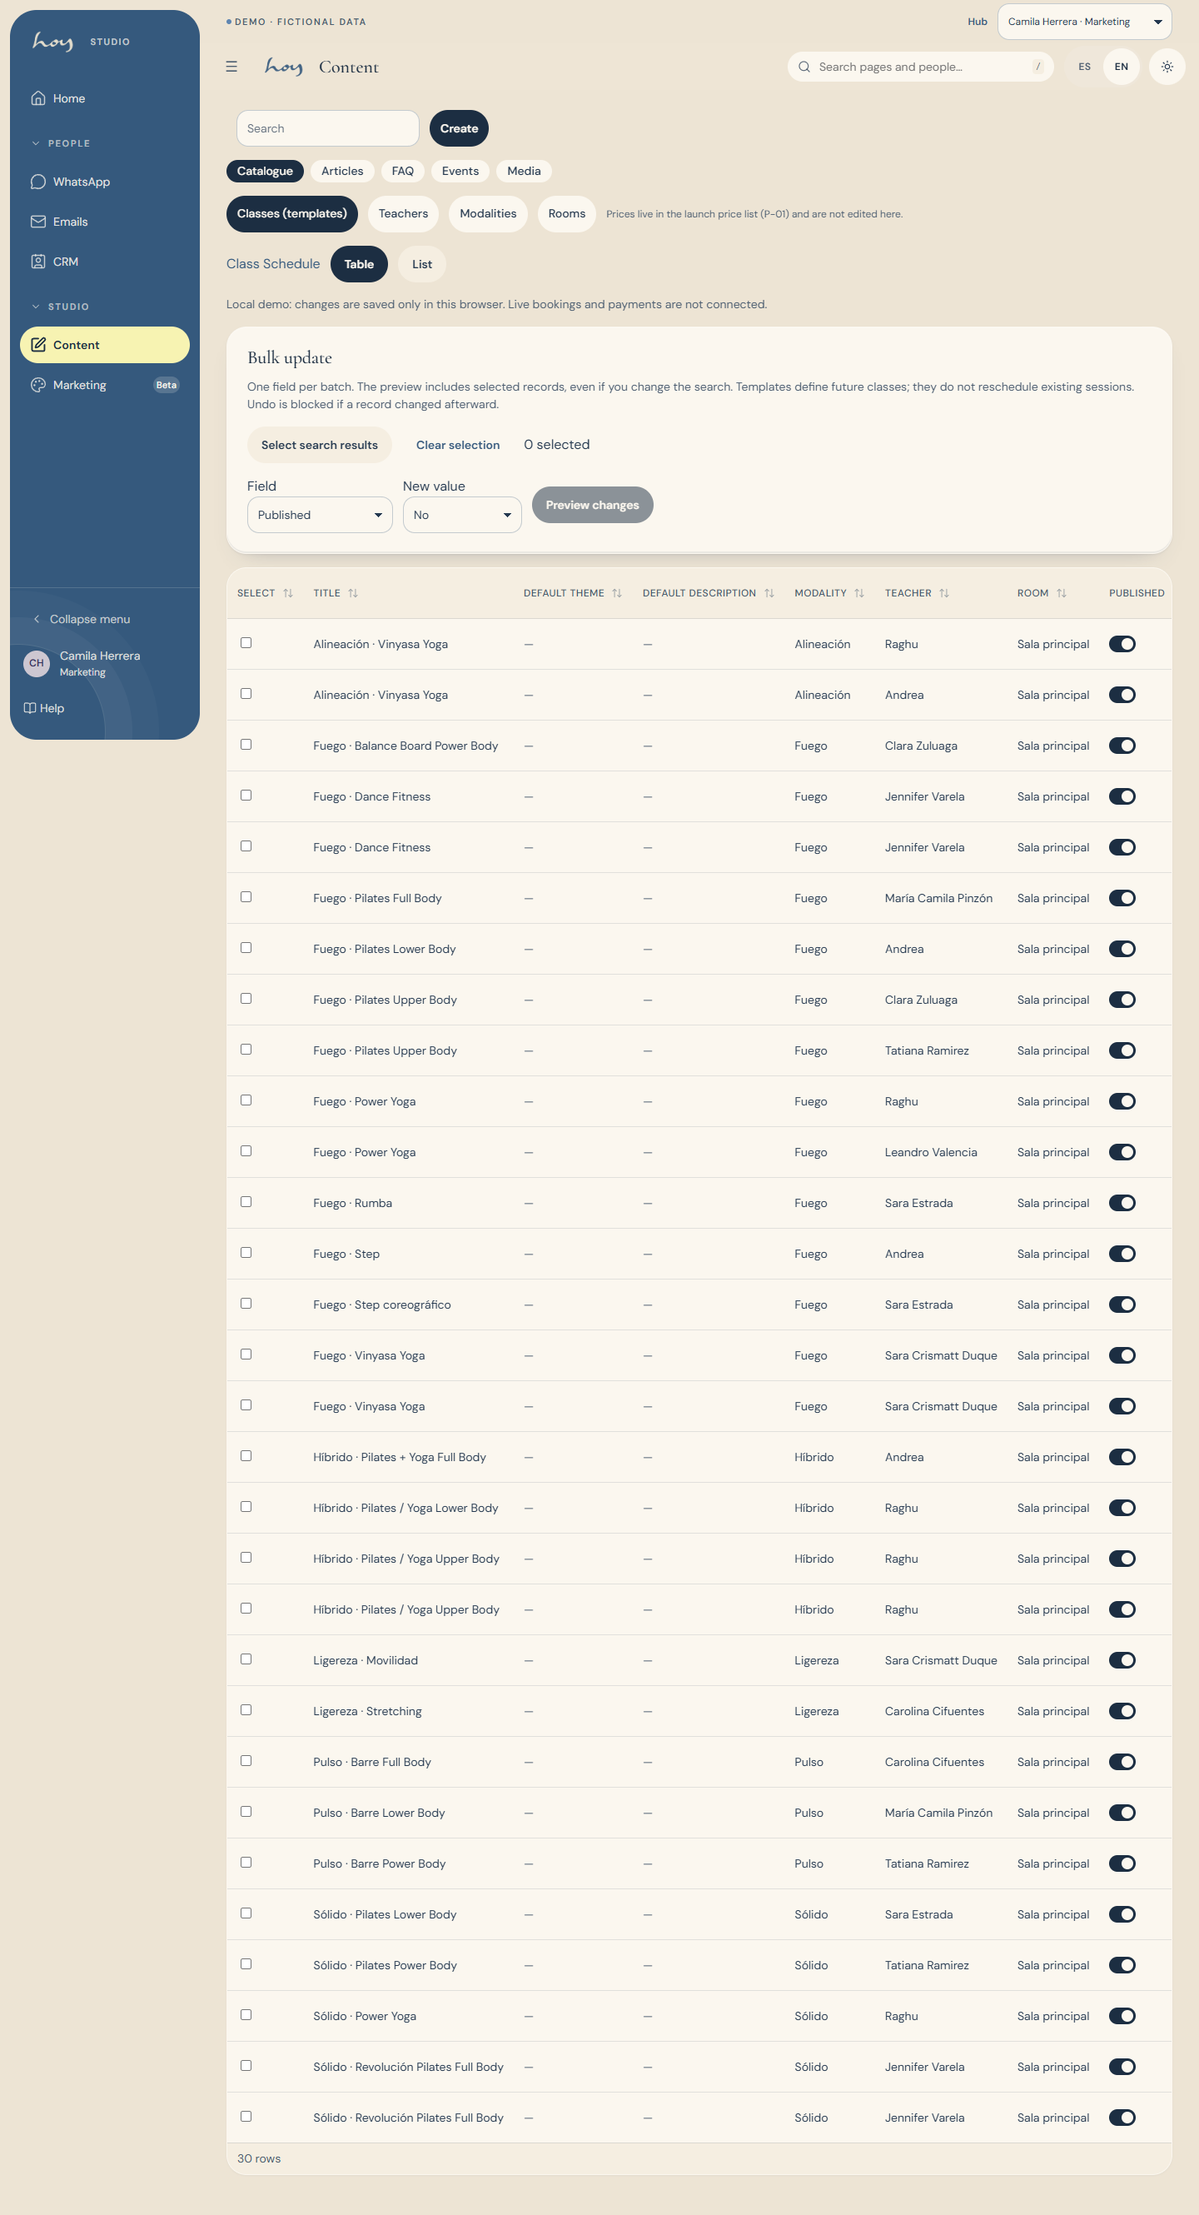
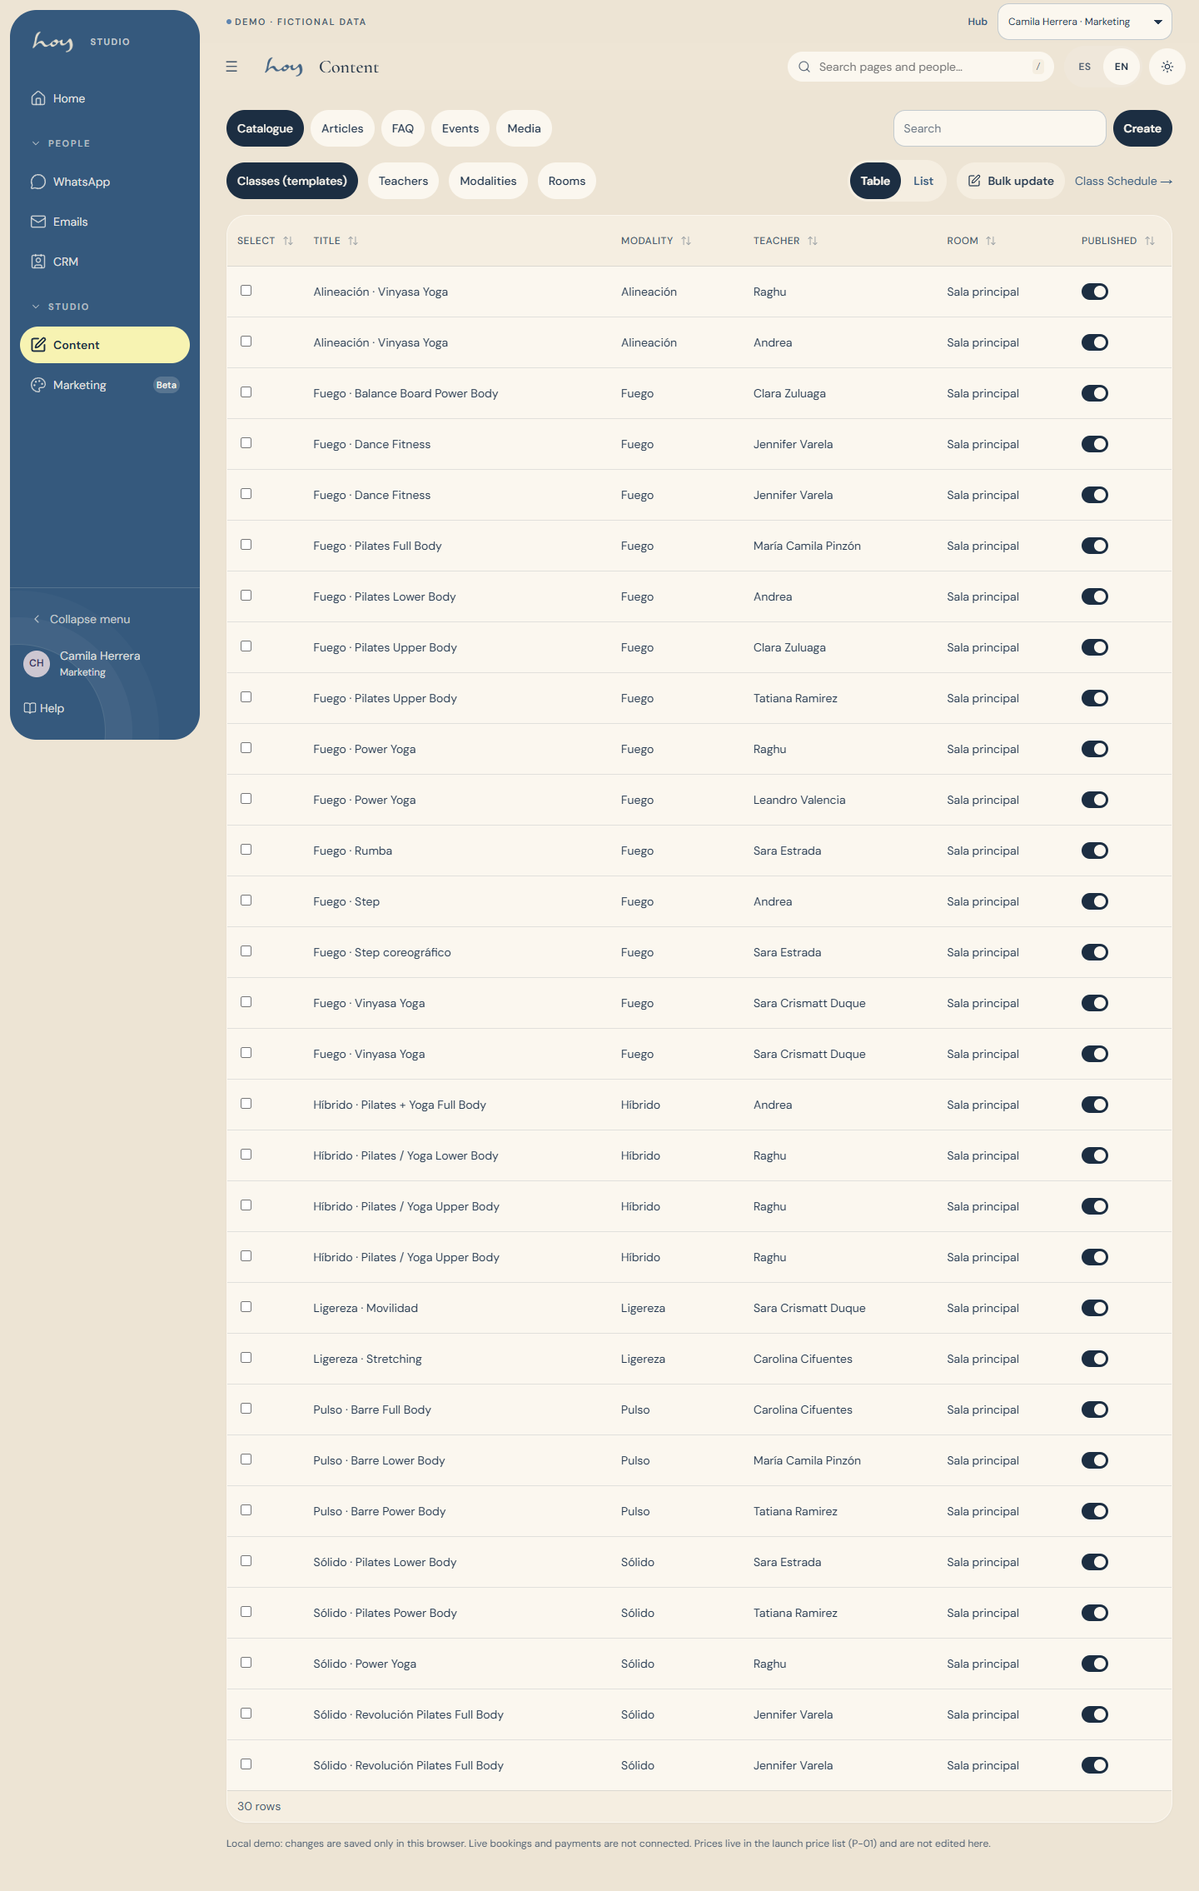
feat(content): two control rows, progressive bulk editor, no empty columns
M-02 family: page actions ride the sub-navigation row; the entities page puts
record tabs and view / bulk / schedule controls on one row, opens the bulk
editor on demand, hides all-empty columns and moves the notes to a footnote.
Changelog 0169.

diff --git a/src/modules/admin/ContentPage.tsx b/src/modules/admin/ContentPage.tsx
@@ -100,6 +100,10 @@ export function ContentPage() {
   const bulkLock = useRef(false);
   const [bulkBusy, setBulkBusy] = useState(false), [bulkError, setBulkError] = useState('');
   const [view, setView] = useState<'table' | 'list'>('table');
+  // 0169: the bulk editor is progressive — it opens from its toolbar button or as soon as a row is ticked, and stays
+  // open while a preview, an undo or a result message needs it.
+  const [bulkOpen, setBulkOpen] = useState(false);
+  const bulkShown = bulkOpen || checked.length > 0 || !!preview || !!undo || !!bulkError;
   useEffect(() => { const e = params.get('entity'); if (e && e in FIELDS) { setEntity(e as Entity); setSelected(params.get('row')); setChecked([]); setPreview(null); setUndo(null); } }, [params]);
   const { rows, loading } = useTable<BaseRow>(entity, { orderBy: { column: FIELDS[entity][0].name } });
   const { rows: modalities } = useTable<ModalityRow>('modalities');
@@ -137,9 +141,12 @@ export function ContentPage() {
   const row = rows.find((r) => r.id === selected) ?? null;
 
   const columns = useMemo<DataTableColumn<BaseRow>[]>(() => {
-    const first = fields.slice(0, entity === 'class_templates' ? 6 : 4);
+    // 0169: a column that is empty on every record (e.g. default theme / description before anyone writes them) is
+    // left out of the table; the drawer still edits it.
+    const blank = (v: unknown) => v == null || v === '' || (Array.isArray(v) && v.length === 0) || (typeof v === 'object' && !Array.isArray(v) && !((v as Bi).es || (v as Bi).en));
+    const first = fields.slice(0, entity === 'class_templates' ? 6 : 4).filter((f, i) => i === 0 || rows.length === 0 || rows.some((r) => !blank(r[f.name])));
     return [
-      ...(canWrite ? [{ key: 'select', label: t('bulk.select'), render: (r: BaseRow) => <span onClick={e => e.stopPropagation()}><input type="checkbox" aria-label={`${t('bulk.select')} ${String(r[FIELDS[entity][0].name])}`} checked={checked.includes(r.id)} disabled={bulkBusy} onChange={e => { setChecked(ids => e.target.checked ? [...ids, r.id] : ids.filter(id => id !== r.id)); setPreview(null); }} /></span> }] : []),
+      ...(canWrite ? [{ key: 'select', label: t('bulk.select'), width: '4.5rem', render: (r: BaseRow) => <span onClick={e => e.stopPropagation()}><input type="checkbox" aria-label={`${t('bulk.select')} ${String(r[FIELDS[entity][0].name])}`} checked={checked.includes(r.id)} disabled={bulkBusy} onChange={e => { setChecked(ids => e.target.checked ? [...ids, r.id] : ids.filter(id => id !== r.id)); setPreview(null); }} /></span> }] : []),
       ...first.map<DataTableColumn<BaseRow>>((f) => ({ key: f.name, label: bi(f.label), render: (r) => {
         const v = r[f.name];
         if (f.kind === 'ref' && f.ref) return refLabel(f.ref, v);
@@ -152,7 +159,7 @@ export function ContentPage() {
       } })),
       ...(entity !== 'rooms' ? [{ key: 'active', label: t('admin.content.published'), width: 120, render: (r) => <span onClick={(e) => e.stopPropagation()}><Toggle size="sm" checked={!!r.active} disabled={!canWrite || recovery.busy || bulkBusy} onChange={(on) => publish(r, on)} /></span> } as DataTableColumn<BaseRow>] : []),
     ];
-  }, [entity, bi, refs, canWrite, checked, bulkBusy, fields, recovery.busy]);
+  }, [entity, bi, refs, canWrite, checked, bulkBusy, fields, recovery.busy, rows]);
 
   const publish = (r: BaseRow, on: boolean) => write({ kind: 'update', table: entity, before: r, patch: { active: on } });
   const add = () => write({ kind: 'create', table: entity, patch: structuredClone(BLANK[entity]) }, setSelected);
@@ -165,21 +172,25 @@ export function ContentPage() {
     <div className="stack">
       <div className="page-head">
         <div><h1>{t('admin.content.title')}</h1><p className="muted small">{t('admin.content.subtitle')}</p></div>
-        <div className="row wrap">
-          <Input value={search} onChange={(e) => setSearch(e.target.value)} placeholder={t('core.common.search')} style={{ width: 220 }} aria-label={t('core.common.search')} />
-          {canWrite && <Button size="sm" disabled={recovery.busy || bulkBusy} onClick={add}>{t('admin.content.add')}</Button>}
-        </div>
       </div>
-      <ContentSubNav current="entities" />
+      {/* 0169 · two control rows instead of five: sections + search/create, then records + view/bulk/schedule */}
+      <ContentSubNav current="entities" actions={<>
+        <Input value={search} onChange={(e) => setSearch(e.target.value)} placeholder={t('core.common.search')} className="content-search" aria-label={t('core.common.search')} />
+        {canWrite && <Button size="sm" disabled={recovery.busy || bulkBusy} onClick={add}>{t('admin.content.add')}</Button>}
+      </>} />
       {!row && recovery.notice}
       {entity==='teachers'&&reviewer(role)&&<TeacherQueue/>}
-      <div className="row wrap" role="tablist">
-        {(Object.keys(FIELDS) as Entity[]).map((e) => <Chip key={e} selected={entity === e} onClick={recovery.blocked ? undefined : () => { setEntity(e); setSelected(null); setSearch(''); resetBulk(); setBulkField(e === 'rooms' ? 'heated' : 'active'); }}>{t(`admin.content.tab.${e}`)}</Chip>)}
-        <span className="xs muted">{t('admin.content.pricingNote')}</span>
+      <div className="content-tools">
+        <div className="row wrap" role="tablist">
+          {(Object.keys(FIELDS) as Entity[]).map((e) => <Chip key={e} selected={entity === e} onClick={recovery.blocked ? undefined : () => { setEntity(e); setSelected(null); setSearch(''); resetBulk(); setBulkField(e === 'rooms' ? 'heated' : 'active'); }}>{t(`admin.content.tab.${e}`)}</Chip>)}
+        </div>
+        <div className="content-tools-right">
+          <div className="segmented content-view" role="group" aria-label={t('schedule.title')}>{(['table', 'list'] as const).map(v => <Button key={v} size="sm" variant={view === v ? 'primary' : 'ghost'} aria-pressed={view === v} onClick={() => setView(v)}>{t(`schedule.${v}`)}</Button>)}</div>
+          {canWrite && data.contentBatch && <Button size="sm" variant="secondary" icon="edit" aria-expanded={bulkShown} onClick={() => setBulkOpen(o => !o)}>{t('bulk.title')}</Button>}
+          <Link to="/admin/class-schedule" className="small">{t('schedule.title')} →</Link>
+        </div>
       </div>
-      <div className="row wrap"><Link to="/admin/class-schedule">{t('schedule.title')}</Link>{(['table', 'list'] as const).map(v => <Button key={v} variant={view === v ? 'primary' : 'secondary'} aria-pressed={view === v} onClick={() => setView(v)}>{t(`schedule.${v}`)}</Button>)}</div>
-      <p className="small muted">{t('schedule.demo')}</p>
-      {canWrite && data.contentBatch && <Card title={t('bulk.title')}><div className="stack">
+      {canWrite && data.contentBatch && bulkShown && <Card title={t('bulk.title')} className="content-bulk"><div className="stack">
         <p className="small muted">{t('bulk.scope')}</p>
         <div className="row wrap"><Button variant="secondary" disabled={bulkBusy} onClick={() => { setChecked(visibleRows.map(r => r.id)); setPreview(null); }}>{t('bulk.selectVisible')}</Button><Button variant="ghost" disabled={bulkBusy} onClick={() => { setChecked([]); setPreview(null); }}>{t('bulk.clear')}</Button><span>{t('bulk.count', { n: checked.length })}</span></div>
         <div className="row wrap"><label>{t('bulk.field')}<Select aria-label={t('bulk.field')} value={chosenField.name} disabled={bulkBusy} onChange={e => { setBulkField(e.target.value); setBulkValue(''); setPreview(null); }}>{bulkFields.map(f => <option key={f.name} value={f.name}>{bi(f.label)}</option>)}</Select></label><label>{t('bulk.value')}{chosenField.kind === 'bool' ? <Select aria-label={t('bulk.value')} value={bulkValue} disabled={bulkBusy} onChange={e => { setBulkValue(e.target.value); setPreview(null); }}><option value="">—</option><option value="true">{t('admin.tables.yes')}</option><option value="false">{t('admin.tables.no')}</option></Select> : chosenField.kind === 'ref' && chosenField.ref ? <Select aria-label={t('bulk.value')} value={bulkValue} disabled={bulkBusy} onChange={e => { setBulkValue(e.target.value); setPreview(null); }}><option value="">—</option>{refs[chosenField.ref].map(r => <option key={r.id} value={r.id}>{r.label}</option>)}</Select> : chosenField.kind === 'select' || chosenField.kind === 'tone' ? <Select aria-label={t('bulk.value')} value={bulkValue} disabled={bulkBusy} onChange={e => { setBulkValue(e.target.value); setPreview(null); }}><option value="">—</option>{(chosenField.options ?? TONES).map(v => <option key={v} value={v}>{chosenField.name === 'weekday' ? bi(WEEKDAYS[Number(v)]) : v}</option>)}</Select> : <Input aria-label={t('bulk.value')} value={bulkValue} disabled={bulkBusy} type={chosenField.kind === 'int' ? 'number' : chosenField.kind === 'time' ? 'time' : 'text'} onChange={e => { setBulkValue(e.target.value); setPreview(null); }} />}</label><Button disabled={!checked.length || bulkValue === '' || bulkBusy} onClick={() => bulk('preview')}>{t('bulk.preview')}</Button></div>
@@ -189,6 +200,7 @@ export function ContentPage() {
       {loading && rows.length === 0 ? <EmptyState tone="loading" title={t('core.common.loading')} /> : rows.length === 0 ? <EmptyState title={t('admin.content.empty')} body={t('admin.content.empty.body')} action={canWrite && <Button size="sm" disabled={recovery.busy || bulkBusy} onClick={add}>{t('admin.content.add')}</Button>} /> : (
         view === 'list' ? <div className="grid grid-2">{visibleRows.map(r => <Card key={r.id} title={String(r[FIELDS[entity][0].name])} actions={<Button onClick={() => setSelected(r.id)}>{t('core.common.edit')}</Button>}><div className="stack-sm">{canWrite && <label><input type="checkbox" checked={checked.includes(r.id)} disabled={bulkBusy} onChange={e => { setChecked(ids => e.target.checked ? [...ids, r.id] : ids.filter(id => id !== r.id)); setPreview(null); }} /> {t('bulk.select')}</label>}{fields.slice(1, 5).filter(f => f.kind !== 'bi' && f.kind !== 'list').map(f => <p key={f.name} className="small">{bi(f.label)}: {f.ref ? refLabel(f.ref, r[f.name]) : String(r[f.name] ?? '—')}</p>)}</div></Card>)}</div> : <DataTable columns={columns} rows={visibleRows} rowKey={(r) => r.id} search={search} onRowClick={(r) => setSelected(r.id)} selectedKey={selected} dense />
       )}
+      <p className="xs muted">{t('schedule.demo')} {t('admin.content.pricingNote')}</p>
       <Drawer open={!!row} onClose={() => setSelected(null)} width={520} title={<div className="row wrap"><span>{t(`admin.content.tab.${entity}`)}</span>{row && <Badge tone={row.active ? 'success' : 'warn'}>{row.active ? t('admin.content.published') : t('admin.content.draft')}</Badge>}</div>}
         footer={row && canWrite ? <div className="row-between"><Button variant="danger" size="sm" disabled={recovery.busy || bulkBusy} onClick={() => remove(row)}>{t('core.common.delete')}</Button>{entity !== 'rooms' && <Toggle size="sm" checked={!!row.active} label={t('admin.content.published')} disabled={recovery.busy || bulkBusy} onChange={(on) => publish(row, on)} />}</div> : undefined}>
         {row && recovery.notice}

diff --git a/src/modules/admin/contentNav.tsx b/src/modules/admin/contentNav.tsx
@@ -21,17 +21,23 @@ export const CONTENT_TABS = [
 
 export type ContentTab = typeof CONTENT_TABS[number]['key'];
 
-/** Shared sub-navigation of M-02 — the same row on all five pages. */
-export function ContentSubNav({ current }: { current: ContentTab }) {
+/**
+ * Shared sub-navigation of M-02 — the same row on all five pages. 0169: the page's actions (search, create…) ride on
+ * the right of this row instead of a header row of their own.
+ */
+export function ContentSubNav({ current, actions }: { current: ContentTab; actions?: ReactNode }) {
   const { t } = useI18n();
   return (
-    <nav className="adm-subnav" aria-label={t('admin.content.title')}>
-      {CONTENT_TABS.map((tab) => (
-        <Link key={tab.key} to={tab.to} aria-current={tab.key === current ? 'page' : undefined}>
-          <Chip selected={tab.key === current}>{t(`admin.content.nav.${tab.key}`)}</Chip>
-        </Link>
-      ))}
-    </nav>
+    <div className="adm-subnav-bar">
+      <nav className="adm-subnav" aria-label={t('admin.content.title')}>
+        {CONTENT_TABS.map((tab) => (
+          <Link key={tab.key} to={tab.to} aria-current={tab.key === current ? 'page' : undefined}>
+            <Chip selected={tab.key === current}>{t(`admin.content.nav.${tab.key}`)}</Chip>
+          </Link>
+        ))}
+      </nav>
+      {actions && <div className="adm-subnav-actions">{actions}</div>}
+    </div>
   );
 }
 
@@ -67,9 +73,8 @@ export function ContentHead({ current, title, subtitle, actions }: { current: Co
     <>
       <div className="page-head">
         <div><h1>{title}</h1><p className="muted small">{subtitle}</p></div>
-        {actions && <div className="row wrap">{actions}</div>}
       </div>
-      <ContentSubNav current={current} />
+      <ContentSubNav current={current} actions={actions} />
     </>
   );
 }

diff --git a/src/modules/admin/admin.css b/src/modules/admin/admin.css
@@ -96,6 +96,19 @@
 .hours-day-why { display: inline-flex; align-items: center; gap: var(--stack-tight); overflow-wrap: anywhere; }
 /* M-01 today at a glance */
 /* The time column sizes to its widest entry ("10:10 a. m."); a time never breaks across lines (es-CO puts a plain space inside "a. m."). */
+/* 0169 · M-02 content family: the sub-navigation carries the page actions on its right; the entities page puts its
+   record tabs and view / bulk / schedule controls on one second row */
+.adm-subnav-bar { display: flex; align-items: center; justify-content: space-between; flex-wrap: wrap; gap: var(--sp-sm) var(--sp-lg); }
+.adm-subnav-bar > .adm-subnav { margin: 0; }
+.adm-subnav-actions { display: flex; align-items: center; flex-wrap: wrap; gap: var(--sp-sm); }
+/* section chips are the same size as the record tabs below them (they were smaller, inverting the hierarchy) */
+.adm-subnav a { text-decoration: none; }
+.adm-subnav a .chip { min-height: var(--h-ctl); display: inline-flex; align-items: center; padding-inline: var(--sp-md); }
+.content-search { width: 16rem; max-width: 100%; }
+.content-tools { display: flex; align-items: center; justify-content: space-between; flex-wrap: wrap; gap: var(--sp-sm) var(--sp-lg); }
+.content-tools-right { display: flex; align-items: center; flex-wrap: wrap; gap: var(--sp-sm) var(--sp-md); }
+.content-view { display: inline-flex; gap: var(--sp-2xs); padding: var(--sp-2xs); border-radius: var(--r-full); background: var(--color-surface-2); }
+
 /* 0166 · M-03 CRM: segment tabs and the search on one bar */
 .crm-bar { display: flex; align-items: center; justify-content: space-between; flex-wrap: wrap; gap: var(--sp-sm) var(--sp-lg); }
 .crm-bar > .tabs { flex: 1 1 auto; min-width: 0; }

diff --git a/docs/changelog/0169-content-page.md b/docs/changelog/0169-content-page.md
@@ -1,0 +1,35 @@
+# 0169 — Content (M-02, the marketing home): two control rows, a progressive bulk editor, no empty columns
+
+date: 2026-10-26
+version: 0.25.0
+prompt: docs/prompts/0169-content-page.md
+
+- Trigger: "give the Content page (marketing home) its own balance and declutter pass on a new branch, with screenshots".
+- Critique:
+  - Five rows of chrome in four different control styles pushed the table to about 680 px down a 900 px screen:
+    1. search + create
+    2. sections
+    3. records + price note
+    4. schedule link + view buttons
+    5. demo note
+  - The bulk editor was always open.
+  - "Default theme" and "Default description" were dashes on every row.
+  - The section chips were smaller than the record chips under them.
+- Decision:
+  - **Shared content sub-navigation** (all five M-02 pages): the page actions ride on the right of the sections row.
+  - **Content page, second row:** record tabs on the left; on the right, a Table / List segmented switch, a "Bulk update" toggle and the Class Schedule link.
+  - **Bulk editor:** progressive. It opens from its toggle or as soon as a row is ticked, and stays open while a preview, an undo or a result needs it.
+  - **Notes:** the demo and price notes are one footnote.
+  - **Table:** a column that is empty on every record is left out of the table (the drawer still edits it), and the select column is checkbox-width.
+  - **Section chips** match the record chips' size.
+  - The table now starts at about 260 px instead of 680.
+- Rejected:
+  - Removing the bulk editor from the page (a modal is one level too deep for a frequent batch task).
+  - Hiding columns permanently (they appear as soon as any record has a value).
+- Checks:
+  - Screenshots: docs/screenshots/seats/home-marketing-1440*.png.
+  - Tests pass:
+    - Preview build: test-class-management-ui (now opens Bulk update first), test-content-recovery-ui (Create button located in the sub-navigation actions), test-content-recovery-context-ui, test-content-photo-picker, test-media-access-ui, test-profile-review-ui, test-sidebar-groups.
+    - Dev server: test-media-library.
+  - `npm run build` passes (spacing lint 58, baseline 60).
+- Files: src/modules/admin/{ContentPage.tsx,contentNav.tsx,admin.css}, scripts/test-class-management-ui.mjs, scripts/test-content-recovery-ui.mjs, docs/screenshots/seats/home-marketing-*, docs/kanban.md.

diff --git a/docs/kanban.md b/docs/kanban.md
@@ -40,9 +40,9 @@ Current 2026-10-22: PR71 merged checkedfeaff4e9 (17 workflows/41 jobs), deployme
 
 - 0168 honest balance on `ui-polish/honest-balance`: no padded empty cards anywhere; quiet info notices; inbox triage pane; check-in masonry roster; emails compact notes + one filter row; marketing brand refs in the side column; desk / admin / teacher / member / maintenance homes rebuilt around real content. Screenshots of all role homes. 27 tests pass.
 
-### Next
+- 0169 Content (M-02) on `ui-polish/content-page`: two control rows instead of five, progressive bulk editor, empty columns hidden, notes as footnote; table starts at ~260 px. Content tests pass.
 
-- Content (marketing home): four stacked control rows above a wide table with mostly empty columns — needs its own pass.
+### Next
 - Hub: optional "journey" tab (layout D) for client demos.
 - Studio look, next pass: GlobalSearch as a pill, DataTable row density and serif names, the check-in roster and register in tiles, the inbox thread.
 - IA phase 2: merge related pages into tabs (Mensajes, Caja, Miembros, Nómina, Gastos, Salas, Ventas) with redirects from the old URLs; shared PageTabs pattern in D-02.

diff --git a/docs/prompts/0169-content-page.md b/docs/prompts/0169-content-page.md
@@ -1,0 +1,14 @@
+# Content page pass
+
+Yes, give the Content page (marketing home) its own balance and declutter pass on a new branch, with screenshots.
+
+## Response
+
+On `ui-polish/content-page`:
+- The five rows of controls became two.
+- The bulk editor opens from a toggle or when a row is ticked.
+- Columns that are empty on every record are hidden, and the select column is narrow.
+- The section and record chips are the same size.
+- The demo and price notes moved to a footnote.
+
+The table now starts near the top of the screen. See changelog 0169.
